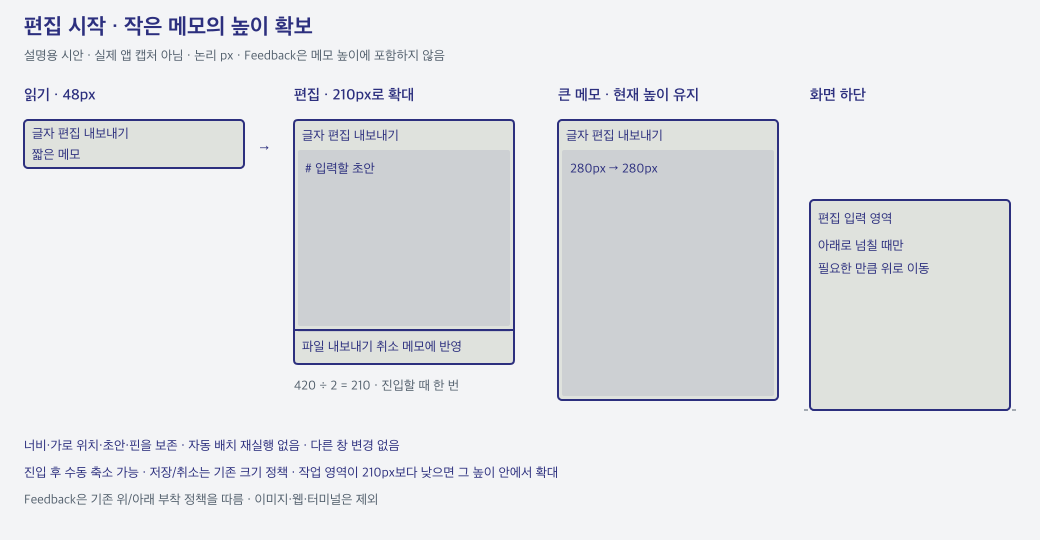
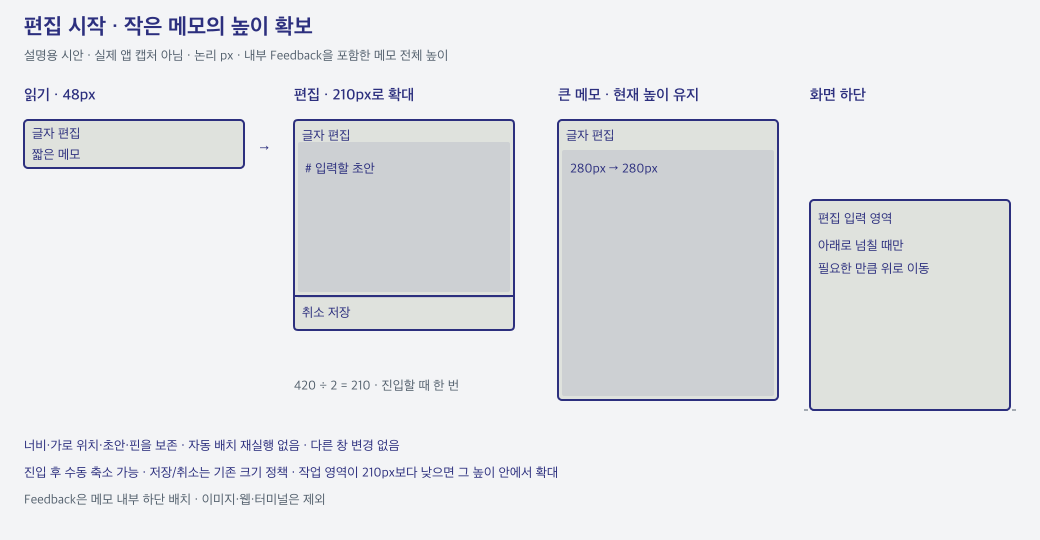
내부 피드백과 저장 명칭에 편집 높이 시안 및 검증 경로 일치

diff --git a/scripts/editor-entry-height-smoke.py b/scripts/editor-entry-height-smoke.py
@@ -39,7 +39,7 @@ def wait(predicate):
     raise AssertionError(value)
 
 def ax(action, *args, feedback=False):
-    return run(OUT / 'ax', pid, title + (' · Feedback' if feedback else ''), action, *args)
+    return run(OUT / 'ax', pid, title, action, *args)
 
 def geometry():
     return json.loads(ax('geometry'))
@@ -103,7 +103,7 @@ try:
             record(f'{width}x{height}-edit')
             cancel()
             assert cli('inspect')['size'] == state['size']
-        # Entering at the bottom grows upward only; existing Feedback attaches above.
+        # Entering at the bottom grows upward; Feedback stays inside the memo.
         ax('position', x, primary_top - work[1] - 48)
         ax('resize', 300, 48)
         time.sleep(.4)
@@ -114,7 +114,7 @@ try:
         assert state['position']['x'] == before['position']['x']
         assert state['position']['y'] < before['position']['y']
         surface = state['feedback_surface']
-        assert surface['position']['y'] + surface['size']['height'] == state['position']['y'], surface
+        assert surface['mode'] == 'inline' and surface['visible'], surface
         record('bottom-edit')
         # Capture only this PID/title window, never a user's window.
         windows = json.loads(run(OUT / 'native', pid))['windows']
@@ -136,7 +136,7 @@ try:
         record('manual-small-hidden-restored')
         # Conflict still retains the draft; cancel and re-entry grows again.
         source.write_text('외부 원본 변경')
-        click('메모에 반영', feedback=True)
+        click(next(b['label'] for b in cli('inspect')['feedback_surface']['view']['buttons'] if b['id'] == 'save'), feedback=True)
         state = wait(lambda s: s['feedback_surface']['view']['error'])
         assert geometry()['editors'][0]['value'] == '보존할 초안'
         assert source.read_text() == '외부 원본 변경'
@@ -156,7 +156,7 @@ try:
         click('메모 편집')
         editing()
         ax('draft', '# 높이 검증 저장 완료')
-        click('메모에 반영', feedback=True)
+        click(next(b['label'] for b in cli('inspect')['feedback_surface']['view']['buttons'] if b['id'] == 'save'), feedback=True)
         wait(lambda s: s['note']['markdown'] == '# 높이 검증 저장 완료')
         assert source.read_text() == '# 높이 검증 저장 완료'
         record('saved')
